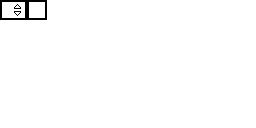
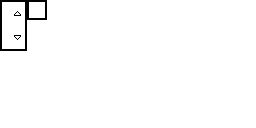
[#32 UI] Changed dropdown size

Changed region(s): [[0.0, 0.0312, 0.125, 0.4062]]

diff --git a/src/core/src/java/com/syntax_highlighters/chess/gui/screens/SetupScreen.java b/src/core/src/java/com/syntax_highlighters/chess/gui/screens/SetupScreen.java
@@ -2,11 +2,13 @@ package com.syntax_highlighters.chess.gui.screens;
 
 import com.badlogic.gdx.Gdx;
 import com.badlogic.gdx.assets.AssetManager;
+import com.badlogic.gdx.graphics.g2d.Sprite;
 import com.badlogic.gdx.scenes.scene2d.InputEvent;
 import com.badlogic.gdx.scenes.scene2d.Stage;
 import com.badlogic.gdx.scenes.scene2d.ui.List;
 import com.badlogic.gdx.scenes.scene2d.ui.SelectBox;
 import com.badlogic.gdx.scenes.scene2d.utils.ClickListener;
+import com.badlogic.gdx.scenes.scene2d.utils.SpriteDrawable;
 import com.badlogic.gdx.utils.viewport.ScreenViewport;
 import com.syntax_highlighters.chess.Account;
 import com.syntax_highlighters.chess.AccountManager;
@@ -85,7 +87,6 @@ public class SetupScreen extends AbstractScreen {
                     // Acount does not exist
                     return;
                 }
-
                 game.setScreen(new GameScreen(game, player1, player2, player1Difficulty, player2Difficulty));
             }
         });
@@ -183,7 +184,7 @@ public class SetupScreen extends AbstractScreen {
 
         box.setItems(accounts.toArray());
         box.setSelected("Player" + (player == -1 ? "1" : "2"));
-        box.setSize(200, 25);
+        box.setSize(200,  45);
         stage.addActor(box);
         if(player == -1)
             player1Title = box;

diff --git a/src/core/src/java/com/syntax_highlighters/chess/gui/actors/Button.java b/src/core/src/java/com/syntax_highlighters/chess/gui/actors/Button.java
@@ -23,7 +23,7 @@ public class Button extends Actor {
 
     private static final int TEXTURE_COUNT = 20;
     private static boolean hasRendered = false;
-    private static ArrayList<FrameBuffer> preRenderedButtons = new ArrayList<>();
+    public static ArrayList<FrameBuffer> preRenderedButtons = new ArrayList<>();
 
     public Button(String buttonText, AssetManager manager)
     {
